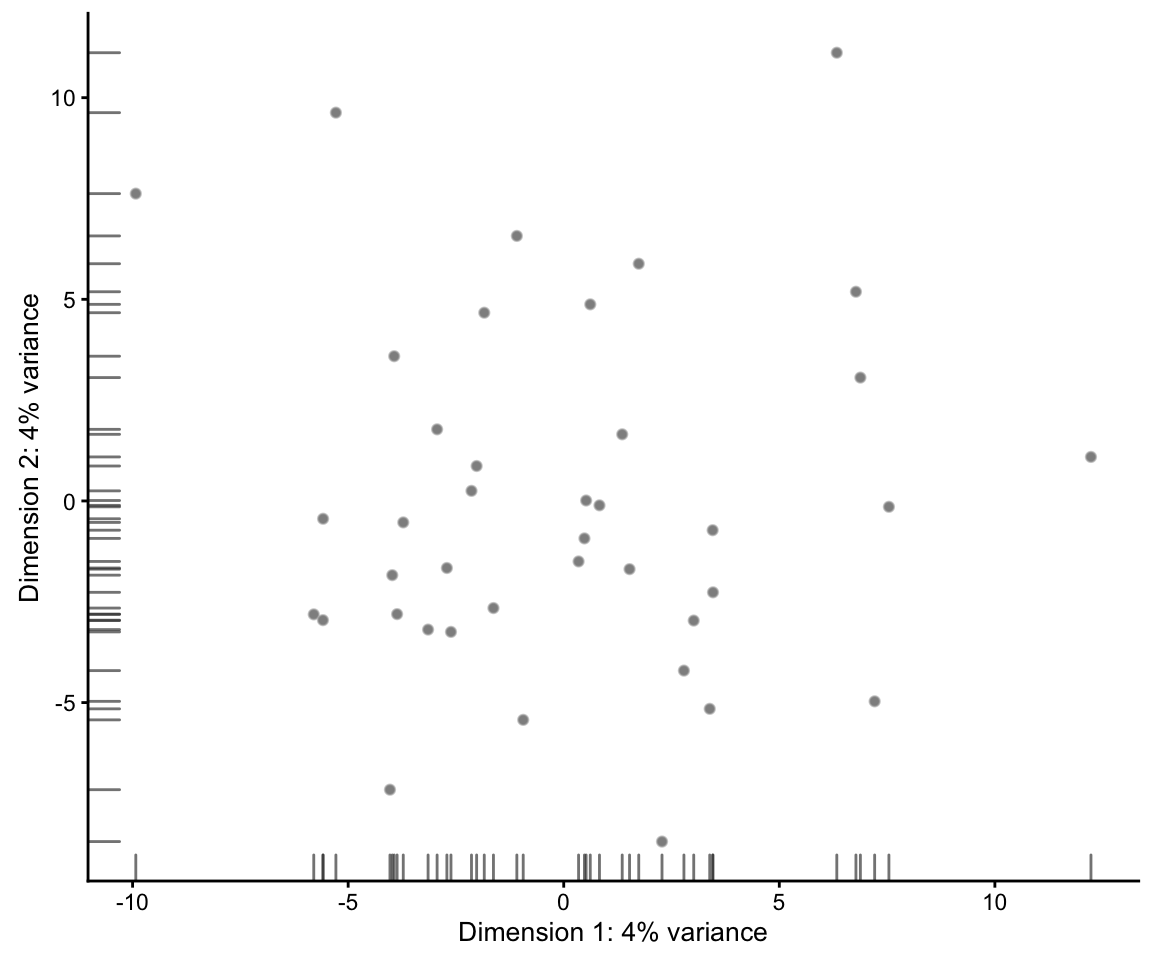
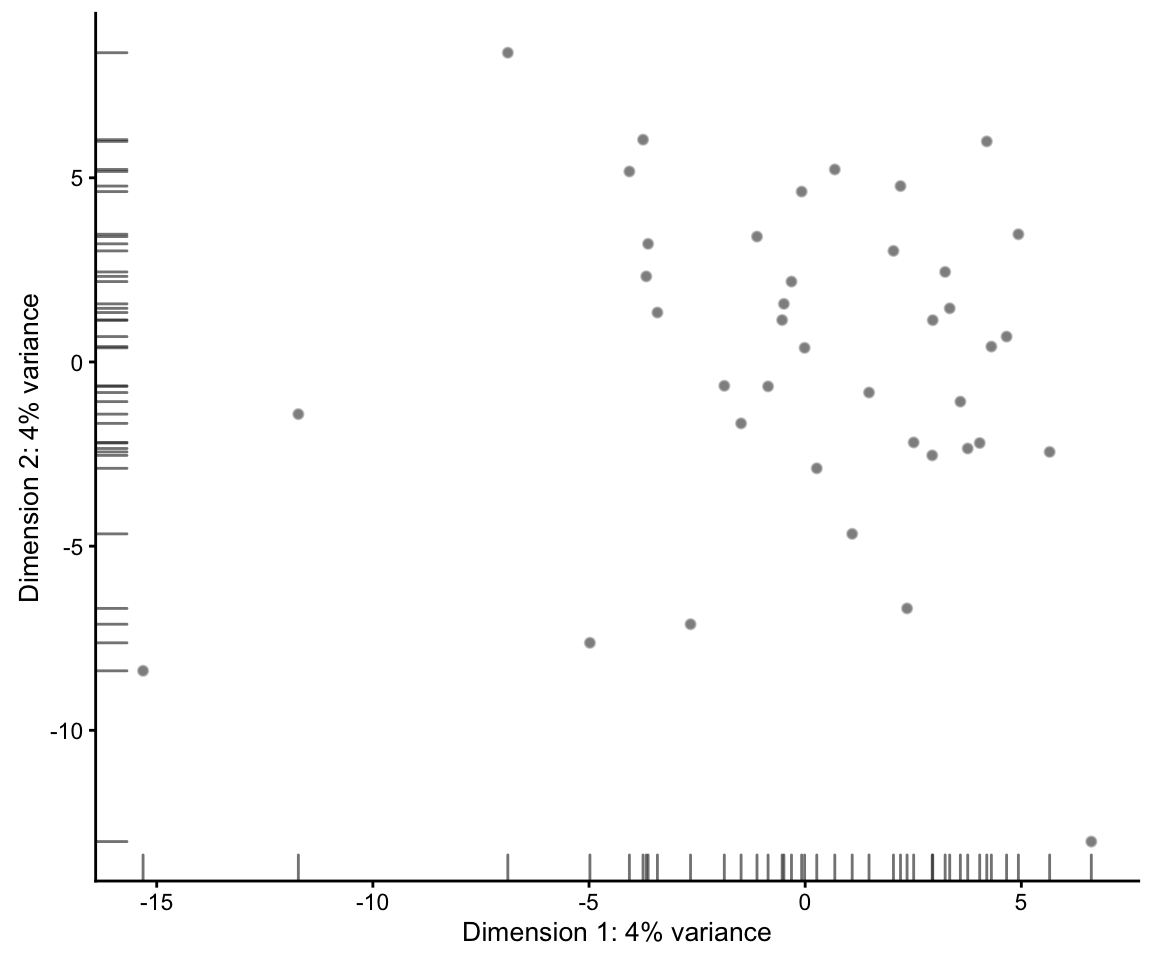
Bump version to 1.3.5

diff --git a/docs/articles/splatter.html b/docs/articles/splatter.html
@@ -76,7 +76,7 @@
       <h1>Introduction to Splatter</h1>
                         <h4 class="author">Luke Zappia</h4>
             
-            <h4 class="date">2018-04-19</h4>
+            <h4 class="date">2018-04-25</h4>
           </div>
 
     
@@ -174,7 +174,7 @@
 <a class="sourceLine" id="cb34-3" data-line-number="3">params &lt;-<span class="st"> </span><span class="kw"><a href="../reference/splatEstimate.html">splatEstimate</a></span>(sc_example_counts)</a></code></pre></div>
 <pre><code>## NOTE: Library sizes have been found to be normally distributed instead of log-normal. You may want to check this is correct.</code></pre>
 <div class="sourceCode" id="cb36"><pre class="sourceCode r"><code class="sourceCode r"><a class="sourceLine" id="cb36-1" data-line-number="1"><span class="co"># Simulate data using estimated parameters</span></a>
-<a class="sourceLine" id="cb36-2" data-line-number="2">sim &lt;-<span class="st"> </span><span class="kw"><a href="../reference/splatSimulate.html">splatSimulate</a></span>(params, <span class="dt">dropout.present =</span> <span class="ot">FALSE</span>)</a></code></pre></div>
+<a class="sourceLine" id="cb36-2" data-line-number="2">sim &lt;-<span class="st"> </span><span class="kw"><a href="../reference/splatSimulate.html">splatSimulate</a></span>(params)</a></code></pre></div>
 <pre><code>## Getting parameters...</code></pre>
 <pre><code>## Creating simulation object...</code></pre>
 <pre><code>## Simulating library sizes...</code></pre>
@@ -285,7 +285,7 @@
 <strong>Dropout parameters</strong>
 <ul>
 <li>
-<code>dropout.present</code> - Logical. Whether to simulate dropout.</li>
+<code>dropout.type</code> - Type of dropout to simulate.</li>
 <li>
 <code>dropout.mid</code> - Midpoint parameter for the dropout logistic function.</li>
 <li>
@@ -483,7 +483,7 @@
 <h1 class="hasAnchor">
 <a href="#simulating-counts" class="anchor"></a>Simulating counts</h1>
 <p>Once we have a set of parameters we are happy with we can use <code>splatSimulate</code> to simulate counts. If we want to make small adjustments to the parameters we can provide them as additional arguments, alternatively if we don’t supply any parameters the defaults will be used:</p>
-<div class="sourceCode" id="cb67"><pre class="sourceCode r"><code class="sourceCode r"><a class="sourceLine" id="cb67-1" data-line-number="1">sim &lt;-<span class="st"> </span><span class="kw"><a href="../reference/splatSimulate.html">splatSimulate</a></span>(params, <span class="dt">nGenes =</span> <span class="dv">1000</span>, <span class="dt">dropout.present =</span> <span class="ot">FALSE</span>, <span class="dt">seed =</span> <span class="dv">0</span>)</a></code></pre></div>
+<div class="sourceCode" id="cb67"><pre class="sourceCode r"><code class="sourceCode r"><a class="sourceLine" id="cb67-1" data-line-number="1">sim &lt;-<span class="st"> </span><span class="kw"><a href="../reference/splatSimulate.html">splatSimulate</a></span>(params, <span class="dt">nGenes =</span> <span class="dv">1000</span>)</a></code></pre></div>
 <pre><code>## Getting parameters...</code></pre>
 <pre><code>## Creating simulation object...</code></pre>
 <pre><code>## Simulating library sizes...</code></pre>
@@ -507,45 +507,45 @@
 <div class="sourceCode" id="cb78"><pre class="sourceCode r"><code class="sourceCode r"><a class="sourceLine" id="cb78-1" data-line-number="1"><span class="co"># Access the counts</span></a>
 <a class="sourceLine" id="cb78-2" data-line-number="2"><span class="kw">counts</span>(sim)[<span class="dv">1</span><span class="op">:</span><span class="dv">5</span>, <span class="dv">1</span><span class="op">:</span><span class="dv">5</span>]</a></code></pre></div>
 <pre><code>##       Cell1 Cell2 Cell3 Cell4 Cell5
-## Gene1    16     0     0  1232     0
-## Gene2    77     0   293     7     0
-## Gene3   323    52     5     0     1
-## Gene4     0     0     7     3     0
-## Gene5   278     0    14    55     1</code></pre>
+## Gene1     0     4     6     0     0
+## Gene2     0     6     0     1     0
+## Gene3     0     0     0     0     0
+## Gene4     2     0     0     0     0
+## Gene5    48   515    97   176    11</code></pre>
 <div class="sourceCode" id="cb80"><pre class="sourceCode r"><code class="sourceCode r"><a class="sourceLine" id="cb80-1" data-line-number="1"><span class="co"># Information about genes</span></a>
 <a class="sourceLine" id="cb80-2" data-line-number="2"><span class="kw">head</span>(<span class="kw">rowData</span>(sim))</a></code></pre></div>
 <pre><code>## DataFrame with 6 rows and 4 columns
-##       Gene     BaseGeneMean OutlierFactor         GeneMean
-##   &lt;factor&gt;        &lt;numeric&gt;     &lt;numeric&gt;        &lt;numeric&gt;
-## 1    Gene1 680.726908939431             1 680.726908939431
-## 2    Gene2 29.6384151850527             1 29.6384151850527
-## 3    Gene3 9.58778523489509             1 9.58778523489509
-## 4    Gene4 2.83976742238589             1 2.83976742238589
-## 5    Gene5 150.071547242578             1 150.071547242578
-## 6    Gene6 66.0478747990155             1 66.0478747990155</code></pre>
+##       Gene      BaseGeneMean OutlierFactor          GeneMean
+##   &lt;factor&gt;         &lt;numeric&gt;     &lt;numeric&gt;         &lt;numeric&gt;
+## 1    Gene1  2.62549353556827             1  2.62549353556827
+## 2    Gene2  4.81434700182375             1  4.81434700182375
+## 3    Gene3 0.495916446978038             1 0.495916446978038
+## 4    Gene4  34.1648904749076             1  34.1648904749076
+## 5    Gene5  24.7045533636413             1  24.7045533636413
+## 6    Gene6  250.903326326503             1  250.903326326503</code></pre>
 <div class="sourceCode" id="cb82"><pre class="sourceCode r"><code class="sourceCode r"><a class="sourceLine" id="cb82-1" data-line-number="1"><span class="co"># Information about cells</span></a>
 <a class="sourceLine" id="cb82-2" data-line-number="2"><span class="kw">head</span>(<span class="kw">colData</span>(sim))</a></code></pre></div>
 <pre><code>## DataFrame with 6 rows and 3 columns
 ##           Cell       Batch       ExpLibSize
 ##       &lt;factor&gt; &lt;character&gt;        &lt;numeric&gt;
-## Cell1    Cell1      Batch1 681471.700471143
-## Cell2    Cell2      Batch1 313386.003338354
-## Cell3    Cell3      Batch1 696954.252459665
-## Cell4    Cell4      Batch1 683666.296838061
-## Cell5    Cell5      Batch1 484986.516482731
-## Cell6    Cell6      Batch1 32266.4313600409</code></pre>
+## Cell1    Cell1      Batch1 954966.951755734
+## Cell2    Cell2      Batch1 405289.957543236
+## Cell3    Cell3      Batch1  584037.74996489
+## Cell4    Cell4      Batch1 602796.965710327
+## Cell5    Cell5      Batch1 87301.1571607906
+## Cell6    Cell6      Batch1 470868.325224977</code></pre>
 <div class="sourceCode" id="cb84"><pre class="sourceCode r"><code class="sourceCode r"><a class="sourceLine" id="cb84-1" data-line-number="1"><span class="co"># Gene by cell matrices</span></a>
 <a class="sourceLine" id="cb84-2" data-line-number="2"><span class="kw">names</span>(<span class="kw">assays</span>(sim))</a></code></pre></div>
 <pre><code>## [1] "BatchCellMeans" "BaseCellMeans"  "BCV"            "CellMeans"     
 ## [5] "TrueCounts"     "counts"</code></pre>
 <div class="sourceCode" id="cb86"><pre class="sourceCode r"><code class="sourceCode r"><a class="sourceLine" id="cb86-1" data-line-number="1"><span class="co"># Example of cell means matrix</span></a>
 <a class="sourceLine" id="cb86-2" data-line-number="2"><span class="kw">assays</span>(sim)<span class="op">$</span>CellMeans[<span class="dv">1</span><span class="op">:</span><span class="dv">5</span>, <span class="dv">1</span><span class="op">:</span><span class="dv">5</span>]</a></code></pre></div>
-<pre><code>##              Cell1        Cell2       Cell3        Cell4        Cell5
-## Gene1 1.996549e+01 5.070084e-03   0.2151287 1.246817e+03 2.348151e-03
-## Gene2 6.824467e+01 6.878904e-04 270.2654016 5.265928e+00 1.081630e+00
-## Gene3 3.299146e+02 5.260857e+01   2.6861953 1.121680e-03 2.510321e+00
-## Gene4 2.971991e-04 5.295532e-11   5.6812428 1.776702e+00 1.525443e-07
-## Gene5 3.066060e+02 2.441931e-11  18.0058655 4.726581e+01 6.353592e-01</code></pre>
+<pre><code>##              Cell1        Cell2        Cell3        Cell4        Cell5
+## Gene1 5.858361e-03 2.084916e+00 1.181249e+01 5.295042e-04 3.916082e-01
+## Gene2 5.880603e-10 1.013736e+01 1.861441e-04 3.629131e-01 1.743725e-05
+## Gene3 1.673555e-09 8.432645e-04 9.257897e-06 2.886216e-01 4.932245e-21
+## Gene4 6.088198e-01 1.685011e-06 1.528356e-17 2.186295e-01 3.857391e-02
+## Gene5 4.210456e+01 5.108598e+02 9.006138e+01 1.578927e+02 1.056544e+01</code></pre>
 <p>An additional (big) advantage of outputting a <code>SingleCellExperiment</code> is that we get immediate access to other analysis packages, such as the plotting functions in <code>scater</code>. For example we can make a PCA plot:</p>
 <div class="sourceCode" id="cb88"><pre class="sourceCode r"><code class="sourceCode r"><a class="sourceLine" id="cb88-1" data-line-number="1"><span class="co"># Use scater to calculate logcounts</span></a>
 <a class="sourceLine" id="cb88-2" data-line-number="2">sim &lt;-<span class="st"> </span><span class="kw"><a href="http://www.rdocumentation.org/packages/scater/topics/normalize">normalise</a></span>(sim)</a></code></pre></div>

diff --git a/docs/reference/summariseDiff.html b/docs/reference/summariseDiff.html
@@ -127,20 +127,20 @@ Error (RMSE) for the various properties and ranks them.</p>
     <pre class="examples"><div class='input'><span class='no'>sim1</span> <span class='kw'>&lt;-</span> <span class='fu'><a href='splatSimulate.html'>splatSimulate</a></span>(<span class='kw'>nGenes</span> <span class='kw'>=</span> <span class='fl'>1000</span>, <span class='kw'>batchCells</span> <span class='kw'>=</span> <span class='fl'>20</span>)</div><div class='output co'>#&gt; <span class='message'>Getting parameters...</span></div><div class='output co'>#&gt; <span class='message'>Creating simulation object...</span></div><div class='output co'>#&gt; <span class='message'>Simulating library sizes...</span></div><div class='output co'>#&gt; <span class='message'>Simulating gene means...</span></div><div class='output co'>#&gt; <span class='message'>Simulating BCV...</span></div><div class='output co'>#&gt; <span class='message'>Simulating counts..</span></div><div class='output co'>#&gt; <span class='message'>Simulating dropout (if needed)...</span></div><div class='output co'>#&gt; <span class='message'>Done!</span></div><div class='input'><span class='no'>sim2</span> <span class='kw'>&lt;-</span> <span class='fu'><a href='simpleSimulate.html'>simpleSimulate</a></span>(<span class='kw'>nGenes</span> <span class='kw'>=</span> <span class='fl'>1000</span>, <span class='kw'>nCells</span> <span class='kw'>=</span> <span class='fl'>20</span>)</div><div class='output co'>#&gt; <span class='message'>Simulating means...</span></div><div class='output co'>#&gt; <span class='message'>Simulating counts...</span></div><div class='output co'>#&gt; <span class='message'>Creating final dataset...</span></div><div class='input'><span class='no'>difference</span> <span class='kw'>&lt;-</span> <span class='fu'><a href='diffSCEs.html'>diffSCEs</a></span>(<span class='fu'>list</span>(<span class='kw'>Splat</span> <span class='kw'>=</span> <span class='no'>sim1</span>, <span class='kw'>Simple</span> <span class='kw'>=</span> <span class='no'>sim2</span>), <span class='kw'>ref</span> <span class='kw'>=</span> <span class='st'>"Simple"</span>)</div><div class='output co'>#&gt; <span class='message'>Note that the names of some metrics have changed, see 'Renamed metrics' in ?calculateQCMetrics.</span>
 #&gt; <span class='message'>Old names are currently maintained for back-compatibility, but may be removed in future releases.</span></div><div class='output co'>#&gt; <span class='message'>Note that the names of some metrics have changed, see 'Renamed metrics' in ?calculateQCMetrics.</span>
 #&gt; <span class='message'>Old names are currently maintained for back-compatibility, but may be removed in future releases.</span></div><div class='input'><span class='no'>summary</span> <span class='kw'>&lt;-</span> <span class='fu'>summariseDiff</span>(<span class='no'>difference</span>)
-<span class='fu'>head</span>(<span class='no'>summary</span>)</div><div class='output co'>#&gt;   Dataset Statistic         MAD MADScaled MADRank          MAE MAEScaled
-#&gt; 1   Splat      Mean     2.67384       NaN       1     2.710879       NaN
-#&gt; 2   Splat  Variance    11.83125       NaN       1    10.836162       NaN
-#&gt; 3   Splat ZerosGene    35.00000       NaN       1    40.860000       NaN
-#&gt; 4   Splat   MeanVar    11.35193       NaN       1    12.464230       NaN
-#&gt; 5   Splat MeanZeros    45.00000       NaN       1    43.990000       NaN
-#&gt; 6   Splat   LibSize 54007.50000       NaN       1 57638.350000       NaN
+<span class='fu'>head</span>(<span class='no'>summary</span>)</div><div class='output co'>#&gt;   Dataset Statistic          MAD MADScaled MADRank          MAE MAEScaled
+#&gt; 1   Splat      Mean     2.578921       NaN       1     2.526951       NaN
+#&gt; 2   Splat  Variance    11.923672       NaN       1    10.771444       NaN
+#&gt; 3   Splat ZerosGene    35.000000       NaN       1    41.210000       NaN
+#&gt; 4   Splat   MeanVar    11.687919       NaN       1    12.429719       NaN
+#&gt; 5   Splat MeanZeros    45.000000       NaN       1    42.440000       NaN
+#&gt; 6   Splat   LibSize 53750.500000       NaN       1 57352.550000       NaN
 #&gt;   MAERank         RMSE RMSEScaled RMSERank
-#&gt; 1       1     3.287816        NaN        1
-#&gt; 2       1    13.638593        NaN        1
-#&gt; 3       1    45.098780        NaN        1
-#&gt; 4       1    15.539611        NaN        1
-#&gt; 5       1    53.837719        NaN        1
-#&gt; 6       1 58755.898060        NaN        1</div></pre>
+#&gt; 1       1     3.056807        NaN        1
+#&gt; 2       1    13.346501        NaN        1
+#&gt; 3       1    45.518677        NaN        1
+#&gt; 4       1    15.389141        NaN        1
+#&gt; 5       1    51.924946        NaN        1
+#&gt; 6       1 58750.990661        NaN        1</div></pre>
   </div>
   <div class="col-md-3 hidden-xs hidden-sm" id="sidebar">
     <h2>Contents</h2>

diff --git a/docs/reference/addGeneLengths.html b/docs/reference/addGeneLengths.html
@@ -154,14 +154,14 @@ vector.</p>
     <pre class="examples"><div class='input'><span class='co'># Default generate method</span>
 <span class='no'>sce</span> <span class='kw'>&lt;-</span> <span class='fu'><a href='simpleSimulate.html'>simpleSimulate</a></span>()</div><div class='output co'>#&gt; <span class='message'>Simulating means...</span></div><div class='output co'>#&gt; <span class='message'>Simulating counts...</span></div><div class='output co'>#&gt; <span class='message'>Creating final dataset...</span></div><div class='input'><span class='no'>sce</span> <span class='kw'>&lt;-</span> <span class='fu'>addGeneLengths</span>(<span class='no'>sce</span>)
 <span class='fu'>head</span>(<span class='fu'>rowData</span>(<span class='no'>sce</span>))</div><div class='output co'>#&gt; DataFrame with 6 rows and 3 columns
-#&gt;       Gene           GeneMean    Length
-#&gt;   &lt;factor&gt;          &lt;numeric&gt; &lt;numeric&gt;
-#&gt; 1    Gene1   0.26662904681126      1135
-#&gt; 2    Gene2   3.22843622430885      6836
-#&gt; 3    Gene3  0.747825116595176      3205
-#&gt; 4    Gene4 0.0237206245029356      1427
-#&gt; 5    Gene5 0.0901336217761832      4777
-#&gt; 6    Gene6    2.1010781020721      1065</div><div class='input'># Sample method (human coding genes)
+#&gt;       Gene          GeneMean    Length
+#&gt;   &lt;factor&gt;         &lt;numeric&gt; &lt;numeric&gt;
+#&gt; 1    Gene1  3.19721697566766       428
+#&gt; 2    Gene2 0.316692135258865      2948
+#&gt; 3    Gene3  2.90867080625693      1507
+#&gt; 4    Gene4   7.5357203351493      6034
+#&gt; 5    Gene5  5.92953185619191      1713
+#&gt; 6    Gene6  3.78237895789214      2926</div><div class='input'># Sample method (human coding genes)
 </div><span class='co'># NOT RUN {</span>
 <span class='fu'>library</span>(<span class='no'>TxDb.Hsapiens.UCSC.hg19.knownGene</span>)
 <span class='fu'>library</span>(<span class='no'>GenomicFeatures</span>)

diff --git a/docs/reference/lunEstimate.html b/docs/reference/lunEstimate.html
@@ -140,12 +140,8 @@ for more details on the parameters.</p>
 
     <h2 class="hasAnchor" id="examples"><a class="anchor" href="#examples"></a>Examples</h2>
     <pre class="examples"><div class='input'><span class='co'># Load example data</span>
-<span class='fu'>library</span>(<span class='no'>scater</span>)</div><div class='output co'>#&gt; <span class='message'>Loading required package: ggplot2</span></div><div class='output co'>#&gt; <span class='message'></span>
-#&gt; <span class='message'>Attaching package: ‘scater’</span></div><div class='output co'>#&gt; <span class='message'>The following object is masked from ‘package:S4Vectors’:</span>
-#&gt; <span class='message'></span>
-#&gt; <span class='message'>    rename</span></div><div class='output co'>#&gt; <span class='message'>The following object is masked from ‘package:stats’:</span>
-#&gt; <span class='message'></span>
-#&gt; <span class='message'>    filter</span></div><div class='input'><span class='fu'>data</span>(<span class='st'>"sc_example_counts"</span>)
+<span class='fu'>library</span>(<span class='no'>scater</span>)
+<span class='fu'>data</span>(<span class='st'>"sc_example_counts"</span>)
 
 <span class='no'>params</span> <span class='kw'>&lt;-</span> <span class='fu'>lunEstimate</span>(<span class='no'>sc_example_counts</span>)
 <span class='no'>params</span></div><div class='output co'>#&gt; A Params object of class LunParams 
@@ -153,7 +149,7 @@ for more details on the parameters.</p>
 #&gt; 
 #&gt; Global: 
 #&gt; (GENES)  (CELLS)   [Seed] 
-#&gt;    2000       40   457996 
+#&gt;    2000       40    33804 
 #&gt; 
 #&gt; 9 additional parameters 
 #&gt; 

diff --git a/docs/news/index.html b/docs/news/index.html
@@ -104,6 +104,16 @@
 
     <div class="contents">
     <div class="section level2">
+<h2>Version 1.3.4 (2018-04-25)</h2>
+<ul>
+<li>Replace dropout.present with dropout.type in SplatParams
+<ul>
+<li>Allows users to set dropout by experiment, batch, group or cell</li>
+</ul>
+</li>
+</ul>
+</div>
+    <div class="section level2">
 <h2>Version 1.3.4 (2018-04-19)</h2>
 <ul>
 <li>Add option to use a normal distribution for library sizes in Splat simulations</li>
@@ -119,6 +129,16 @@
 <h3>Version 1.3.3.9010 (2018-04-12)</h3>
 <ul>
 <li>Add option to use a normal distribution for library sizes in Splat simulations</li>
+</ul>
+</div>
+<div class="section level3">
+<h3>Version 1.3.3.9000 (2018-04-12)</h3>
+<ul>
+<li>Replace dropout.present with dropout.type in SplatParams
+<ul>
+<li>Allows more control over dropout.mid and dropout.shape</li>
+</ul>
+</li>
 </ul>
 </div>
 </div>
@@ -478,6 +498,7 @@
     <div id="tocnav">
       <h2>Contents</h2>
       <ul class="nav nav-pills nav-stacked">
+        <li><a href="#NA">1.3.4</a></li>
         <li><a href="#NA">1.3.4</a></li>
         <li><a href="#NA">1.3.3</a></li>
         <li><a href="#NA">1.3.2</a></li>

diff --git a/docs/reference/SplatParams.html b/docs/reference/SplatParams.html
@@ -171,8 +171,12 @@
             chi-squared distribution.</p></dd>
         </dl></p></dd>
     <dt><em>Dropout parameters</em></dt><dd><p><dl class='dl-horizontal'>
-            <dt><code>dropout.present</code></dt><dd><p>Logical. Whether to simulate
-            dropout.</p></dd>
+            <dt><code>dropout.type</code></dt><dd><p>The type of dropout to simulate.
+            "none" indicates no dropout, "experiment" is global dropout using
+            the same parameters for every cell, "batch" uses the same
+            parameters for every cell in each batch, "group" uses the same
+            parameters for every cell in each groups and "cell" uses a
+            different set of parameters for each cell.</p></dd>
             <dt><code>dropout.mid</code></dt><dd><p>Midpoint parameter for the dropout
             logistic function.</p></dd>
             <dt><code>dropout.shape</code></dt><dd><p>Shape parameter for the dropout

diff --git a/docs/reference/splatEstimate.html b/docs/reference/splatEstimate.html
@@ -151,7 +151,7 @@ containing count data to estimate parameters from.</p></td>
 #&gt; 
 #&gt; Global: 
 #&gt; (GENES)  (CELLS)   [Seed] 
-#&gt;    2000       40   457996 
+#&gt;    2000       40    33804 
 #&gt; 
 #&gt; 28 additional parameters 
 #&gt; 
@@ -184,8 +184,8 @@ containing count data to estimate parameters from.</p></td>
 #&gt; 3.21969047393022  14.7262017878812 
 #&gt; 
 #&gt; Dropout: 
-#&gt;          [Present]          (MIDPOINT)             (SHAPE) 
-#&gt;              FALSE    5.00420976858168  -0.652889139821156 
+#&gt;             [Type]          (MIDPOINT)             (SHAPE) 
+#&gt;               none    5.00420976858168  -0.652889139821156 
 #&gt; 
 #&gt; Paths: 
 #&gt;         [From]        [Length]          [Skew]    [Non-linear]  [Sigma Factor] 

diff --git a/docs/reference/setParams.html b/docs/reference/setParams.html
@@ -146,7 +146,7 @@ them manually), see examples.</p>
 #&gt; 
 #&gt; Global: 
 #&gt; (Genes)  (Cells)   [Seed] 
-#&gt;   10000      100   457996 
+#&gt;   10000      100    33804 
 #&gt; 
 #&gt; 3 additional parameters 
 #&gt; 
@@ -164,7 +164,7 @@ them manually), see examples.</p>
 #&gt; 
 #&gt; Global: 
 #&gt; (GENES)  (CELLS)   [Seed] 
-#&gt;    1000       50   457996 
+#&gt;    1000       50    33804 
 #&gt; 
 #&gt; 3 additional parameters 
 #&gt; 
@@ -182,7 +182,7 @@ them manually), see examples.</p>
 #&gt; 
 #&gt; Global: 
 #&gt; (GENES)  (CELLS)   [Seed] 
-#&gt;    1000       50   457996 
+#&gt;    1000       50    33804 
 #&gt; 
 #&gt; 3 additional parameters 
 #&gt; 

diff --git a/docs/reference/splatEstDropout.html b/docs/reference/splatEstDropout.html
@@ -129,7 +129,9 @@ when simulating dropout.</p>
 
     <p>Logistic function parameters are estimated by fitting a logistic function
 to the relationship between log2 mean gene expression and the proportion of
-zeros in each gene. See <code><a href='http://www.rdocumentation.org/packages/stats/topics/nls'>nls</a></code> for details of fitting.</p>
+zeros in each gene. See <code><a href='http://www.rdocumentation.org/packages/stats/topics/nls'>nls</a></code> for details of fitting.
+Note this is done on the experiment level, more granular (eg. group or cell)
+level dropout is not estimated.</p>
     
 
   </div>

diff --git a/docs/reference/phenoEstimate.html b/docs/reference/phenoEstimate.html
@@ -151,7 +151,7 @@ See <code><a href='PhenoParams.html'>PhenoParams</a></code> for more details on 
 #&gt; 
 #&gt; Global: 
 #&gt; (GENES)  (CELLS)   [Seed] 
-#&gt;    2000       40   457996 
+#&gt;    2000       40    33804 
 #&gt; 
 #&gt; 4 additional parameters 
 #&gt; 

diff --git a/docs/reference/sparseDCEstimate.html b/docs/reference/sparseDCEstimate.html
@@ -173,7 +173,7 @@ input data. The counts are preprocessed using
 #&gt; 
 #&gt; Global: 
 #&gt; (GENES)  (CELLS)   [Seed] 
-#&gt;     500       20   457996 
+#&gt;     500       20    33804 
 #&gt; 
 #&gt; 7 additional parameters 
 #&gt; 

diff --git a/docs/reference/mfaEstimate.html b/docs/reference/mfaEstimate.html
@@ -150,7 +150,7 @@ details on the parameters.</p>
 #&gt; 
 #&gt; Global: 
 #&gt; (GENES)  (CELLS)   [Seed] 
-#&gt;    2000       40   457996 
+#&gt;    2000       40    33804 
 #&gt; 
 #&gt; 4 additional parameters 
 #&gt; 
